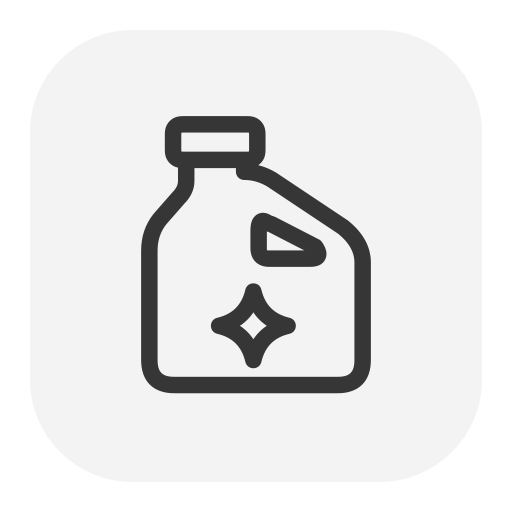
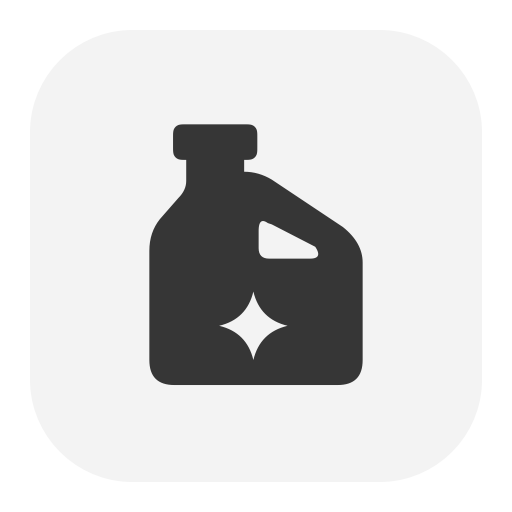
feat(branding): fill the Bleach bottle mark

Changed region(s): [[0.25, 0.2188, 0.75, 0.7812]]

diff --git a/Sources/BleachApp/BleachIcon.swift b/Sources/BleachApp/BleachIcon.swift
@@ -4,10 +4,6 @@ import SwiftUI
 /// A capped bleach jug with a shoulder handle and a clean-label sparkle.
 /// The same vector geometry serves the native sidebar, Dock and exported icon.
 struct BleachMark: Shape {
-    // The closed bottle/handle geometry carries more ink than its siblings;
-    // use a lighter stroke to match their perceived weight.
-    static let strokeWidth: CGFloat = 1.25
-
     func path(in rect: CGRect) -> Path {
         var path = Path()
         func point(_ x: CGFloat, _ y: CGFloat) -> CGPoint { CGPoint(x: rect.minX + x / 24 * rect.width, y: rect.minY + y / 24 * rect.height) }
@@ -29,6 +25,7 @@ struct BleachMark: Shape {
         path.addLine(to: point(13.2, 6.2))
         path.addQuadCurve(to: point(11.1, 5.6), control: point(12.2, 5.6))
         path.addLine(to: point(11.1, 4.7))
+        path.closeSubpath()
 
         // A generous handle opening remains legible at Dock/sidebar sizes.
         path.move(to: point(12.9, 9.5))
@@ -61,8 +58,8 @@ enum BleachIcon {
         transform.concat()
         guard let context = NSGraphicsContext.current?.cgContext else { return }
         context.addPath(BleachMark().path(in: CGRect(x: 0, y: 0, width: 24, height: 24)).cgPath)
-        context.setLineWidth(BleachMark.strokeWidth); context.setLineCap(.round); context.setLineJoin(.round)
-        context.setStrokeColor(color.cgColor); context.strokePath()
+        context.setFillColor(color.cgColor)
+        context.drawPath(using: .eoFill)
     }
     @MainActor static func image(size: CGFloat = 256) -> NSImage {
         NSImage(size: CGSize(width: size, height: size), flipped: false) { bounds in

diff --git a/Sources/BleachApp/Workspace.swift b/Sources/BleachApp/Workspace.swift
@@ -84,7 +84,7 @@ struct Workspace: View {
     private var sidebar: some View {
         VStack(spacing: 0) {
             HStack(spacing: 10) {
-                BleachMark().stroke(style: StrokeStyle(lineWidth: BleachMark.strokeWidth, lineCap: .round, lineJoin: .round))
+                BleachMark().fill(style: FillStyle(eoFill: true))
                     .frame(width: 23, height: 23).accessibilityHidden(true)
                 Text("Bleach").font(.title3.weight(.semibold))
                 Spacer()

diff --git a/docs/VERIFICATION.md b/docs/VERIFICATION.md
@@ -1,5 +1,21 @@
 # Verification
 
+## 0.4.0 · 7 November 2026
+
+Apple silicon, macOS 27.2, Swift 6.3.2 and the existing Command Line Tools; deployment target remains macOS 14.
+
+- **65 targeted tests passed in five suites:** cache discovery, cleanup boundaries, Recovery, output discovery and the existing archive/discovery regressions. Twelve cache cases and two added project-processing cases cover current configuration checks, undo after configuration changes, protected/case-aliased paths, overlap, installed-app profiles, archive-only boundaries, live updater references, idle projects and preservation of source/session/offline-data decoys. Fixture owner snapshots are isolated from real apps; production still refreshes owners before each move.
+- **Coverage comparison:** the installed 0.3.0 CLI found one 8 MiB cache in a disposable home. The new CLI found seven caches totaling 56 MiB private allocation, all suggested, with no scan issues. The six additional 8 MiB trees cover Cargo archives, Prisma downloads, a moved npm cache and Chromium HTTP/code/GPU caches. This is a constructed fixture, not a typical-Mac savings claim.
+- **Native interaction:** the compiled app selected all seven fixture caches and displayed 58.7 MB in decimal units. Unchecking one reduced both totals to 50.3 MB and six items. Review listed the exact seven paths; Move to Recovery moved all seven, Undo returned them, and rescan selected all seven again. The final build repeated move/undo in light appearance, with real Chrome activity isolated from the fixture. Restored payload hashes and protected decoys matched. The filled bottle mark, new rows and totals were inspected in light/standard and dark/standard/compact windows. No global appearance or access settings changed.
+- **Build:** both release products, generated icon assets, version plist and strict local code signatures passed. No new compiler warnings were reported. The shared C filesystem implementation and APFS accounting were unchanged; existing evidence for those algorithms remains historical evidence for its stated inputs.
+- **Local delivery:** installed app, embedded CLI and icon match the built 0.4.0 bundle; the previous app is backed up. The DMG checksum passed, mounted read-only and contains the same signed files plus a drag-to-Applications symlink. Its embedded CLI discovered, moved and restored both project-processing cache fixtures while preserving original assets, import settings and generated modules.
+
+Only disposable files were moved for verification. Live scans were read-only, and inaccessible app-data paths were retained. Older macOS runtimes, Intel and a full VoiceOver session were not rerun for this change. The existing local signing identity is retained; the app is not notarized.
+
+**ACCEPT** for the added macOS cache coverage, safeguards and filled icon on the tested runtime.
+
+## Earlier 0.3.0 release evidence
+
 31 October 2026. Bleach 0.3.0, Apple silicon, macOS 27.2 on Mac16,8. Apple Swift 6.3.2, selected Command Line Tools, macOS 26.5 SDK, deployment target macOS 14. No global Xcode selection or system access settings were changed.
 
 ## Automated evidence
